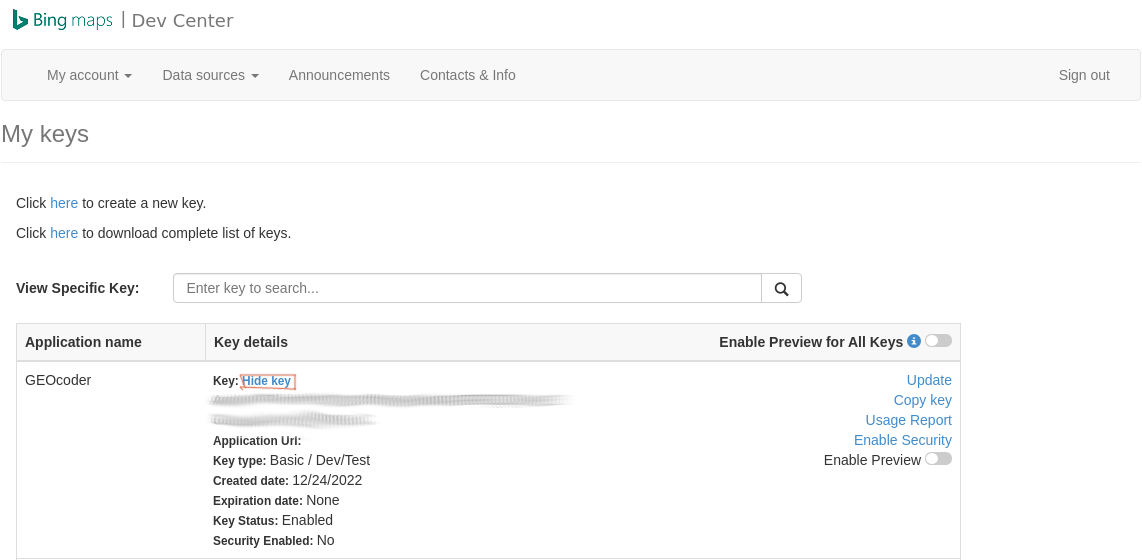
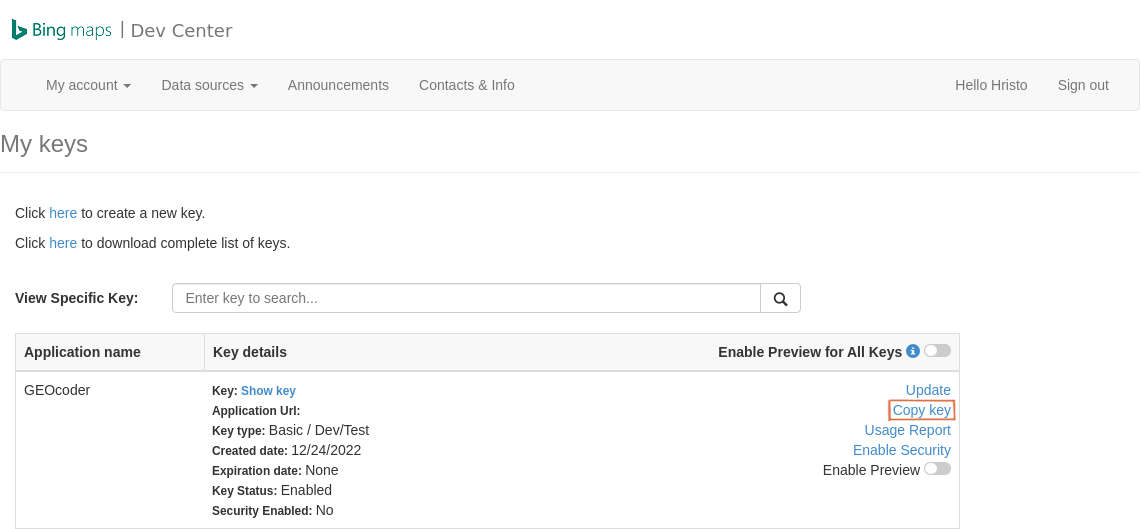
Small adjustments of the documentation - add locationIQ docs.

diff --git a/README.md b/README.md
@@ -35,17 +35,18 @@ git clone git@github.com:batetopro/geocoding.git
 ```
 Optionally, create a new virtualenv:
 ```commandline
-python3 -m venv venv
+python -m venv venv
 source venv/bin/activate
 ```
 After that, go to the folder, in which the repository was cloned.
 Install the package:
 ```commandline
+cd geocoding
 python setup.py install
 ```
-
+---
 Next, go to [bing maps site](https://www.bingmapsportal.com/Application) and create a new API key for this application.
-Then, click on ``Show key`` to get the value of the key.
+Then, click on ``Copy key`` to get the value of the key.
 
   ![bing maps api key](https://github.com/batetopro/geocoding/blob/main/img/map_keys.png?raw=true)
 
@@ -53,11 +54,20 @@ set the api key as local environment variable:
 ```commandline
 export BING_API_KEY=<Secret API Key>
 ```
-
+---
 Run the main script of the package:
 ```commandline
 python -m geocoding
 ```
+---
+To use the additional LocationIQ geo encoder, create an account in LocationIQ.
+After that, get an API Access Token from [here](https://my.locationiq.com/dashboard). 
+Click on ``Show token`` and then on the icon to select the whole API Access Token.
+Set the environment variable to use this value:
+```commandline
+export LOCATIONIQ_API_KEY=<Secret API Key>
+```
+Bear in mind, that the default Free Pricing plan has a limit of 2 requests per second.
 
 ## Package artifacts
 
